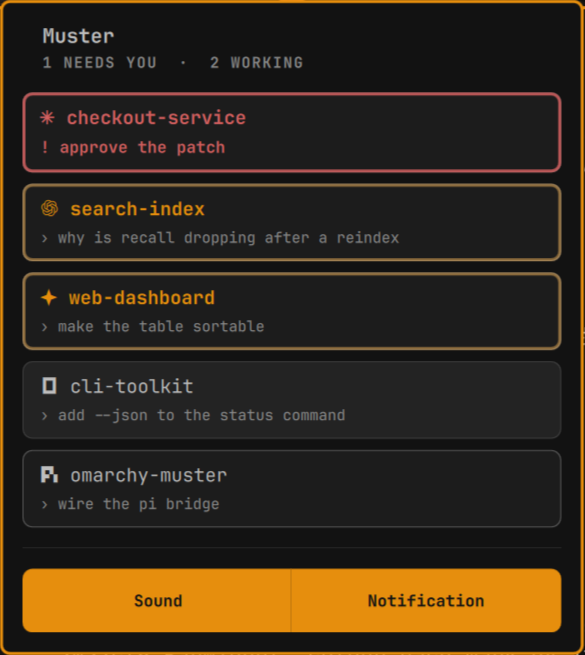
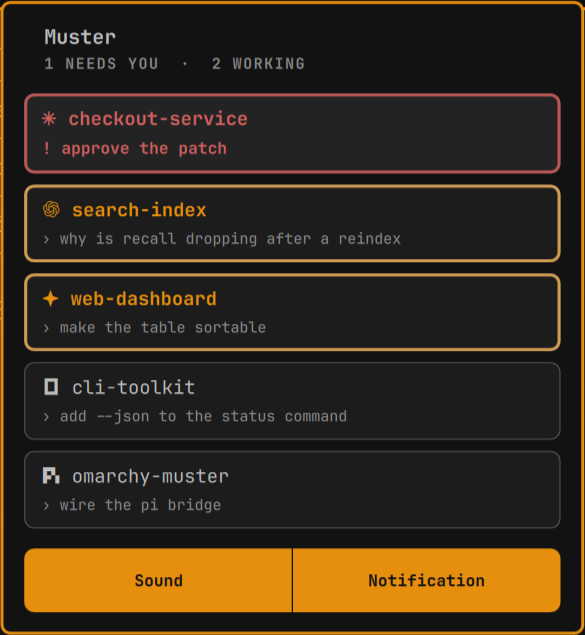
Assets: repaint the panel preview, add the alert figure
The panel preview was shot before the two toggle tiles were split, so the
hairline seam between Sound and Notification was missing; the panel and the
marketplace preview are new captures of the same five-session scene.

The alert figure is new: the same branding column, with the notifications a
finished run raises, one per agent.

Changed region(s): [[0.0, 0.0, 1.0, 1.0], [0.6154, 0.8976, 0.8308, 0.9276], [0.2154, 0.8976, 0.3077, 0.9276]]

diff --git a/assets/README.md b/assets/README.md
@@ -8,7 +8,7 @@ needs to change.
 |------|---------------|---------------|
 | `panel.png` | `README.md`, `README.zh.md` | The panel open, with a blocked card, one or two working cards and an idle one |
 | `chip.png` | `README.md`, `README.zh.md` | A tight crop of the bar chip, several agent marks visible |
-| `notification.png` | optional, not currently embedded | The completion notification next to the chip |
+| `notification.png` | `README.md`, `README.zh.md` | The alerts a finished run raises — one per agent, each with that agent's own mark |
 
 One more file lives outside this directory:
 

diff --git a/README.md b/README.md
@@ -35,6 +35,8 @@ desktop notification — without running a terminal multiplexer.
 
 ![The bar chip](assets/chip.png)
 
+![The completion notification](assets/notification.png)
+
 Captures live in [`assets/`](assets/README.md); the marketplace listing card is
 one optional root `preview.png`.
 

diff --git a/README.zh.md b/README.zh.md
@@ -27,6 +27,8 @@
 
 ![状态栏图标](assets/chip.png)
 
+![完成提醒](assets/notification.png)
+
 截图放在 [`assets/`](assets/README.md);市场列表卡片是仓库根目录下可选的一个
 `preview.png`。
 
